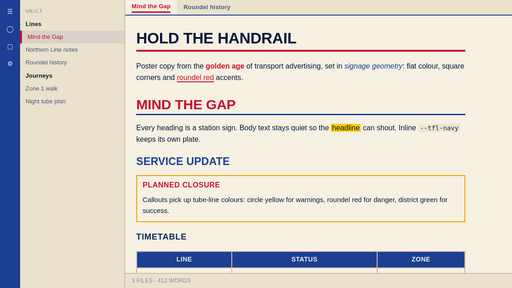
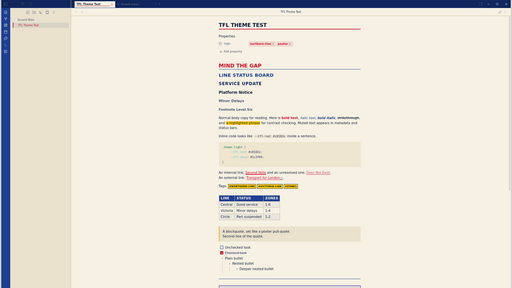
Fix TFL: improve light-mode contrast and screenshots

Changed region(s): [[0.2188, 0.2188, 1.0, 1.0], [0.0, 0.0, 1.0, 1.0], [0.9062, 0.625, 0.9375, 0.75]]

diff --git a/theme.css b/theme.css
@@ -10,15 +10,20 @@
 	/* Poster palette */
 	--tfl-red: #c8102e;
 	--tfl-red-dark: #9b0c23;
+	--tfl-red-ink: #7a081c;
 	--tfl-navy: #1c3f94;
 	--tfl-navy-deep: #10265c;
 	--tfl-navy-ink: #0a1838;
 	--tfl-yellow: #fc0;
 	--tfl-yellow-deep: #f0a400;
+	--tfl-yellow-ink: #5f3b00;
 	--tfl-cream: #f6f1e3;
 	--tfl-cream-deep: #eae2cd;
 	--tfl-teal: #5bc2ce;
+	--tfl-teal-ink: #004b55;
 	--tfl-green: #007d51;
+	--tfl-green-ink: #004f36;
+	--tfl-piccadilly-ink: #0d0875;
 	--tfl-magenta: #a0005e;
 	--tfl-platform: #a9aaae;
 	--tfl-platform-dark: #6f7175;
@@ -317,6 +322,23 @@ svg * {
 	color: var(--tfl-navy-ink);
 }
 
+.theme-light .titlebar .clickable-icon,
+.theme-light .titlebar .titlebar-button,
+.theme-light .workspace-tab-header-container .workspace-tab-header-inner-icon,
+.theme-light .sidebar-toggle-button {
+	color: var(--tfl-cream);
+	opacity: 1;
+}
+
+.theme-light .titlebar .clickable-icon:hover,
+.theme-light .titlebar .titlebar-button:hover,
+.theme-light .workspace-tab-header-container .workspace-tab-header-inner:hover
+	.workspace-tab-header-inner-icon,
+.theme-light .sidebar-toggle-button:hover {
+	background-color: var(--tfl-red);
+	color: #fff;
+}
+
 .workspace-tab-header-inner-title {
 	font-family: var(--font-interface-theme);
 	font-weight: 600;
@@ -430,10 +452,10 @@ svg * {
 	padding: var(--size-4-2) var(--size-4-3);
 }
 
-.callout-title,
-.callout-title-inner,
-.callout-icon .svg-icon {
-	color: var(--callout-color);
+.theme-light .callout-title,
+.theme-light .callout-title-inner,
+.theme-light .callout-icon .svg-icon {
+	color: var(--callout-title-color);
 }
 
 .callout[data-callout="note"],
@@ -441,10 +463,21 @@ svg * {
 	--callout-color: var(--tfl-line-piccadilly);
 }
 
+.theme-light .callout[data-callout="note"],
+.theme-light .callout[data-callout="info"] {
+	--callout-title-color: var(--tfl-piccadilly-ink);
+}
+
 .callout[data-callout="warning"],
 .callout[data-callout="caution"],
 .callout[data-callout="attention"] {
 	--callout-color: var(--tfl-yellow-deep);
+}
+
+.theme-light .callout[data-callout="warning"],
+.theme-light .callout[data-callout="caution"],
+.theme-light .callout[data-callout="attention"] {
+	--callout-title-color: var(--tfl-yellow-ink);
 }
 
 .callout[data-callout="danger"],
@@ -454,16 +487,35 @@ svg * {
 	--callout-color: var(--tfl-red);
 }
 
+.theme-light .callout[data-callout="danger"],
+.theme-light .callout[data-callout="error"],
+.theme-light .callout[data-callout="bug"],
+.theme-light .callout[data-callout="failure"] {
+	--callout-title-color: var(--tfl-red-ink);
+}
+
 .callout[data-callout="success"],
 .callout[data-callout="tip"],
 .callout[data-callout="done"] {
 	--callout-color: var(--tfl-green);
 }
 
+.theme-light .callout[data-callout="success"],
+.theme-light .callout[data-callout="tip"],
+.theme-light .callout[data-callout="done"] {
+	--callout-title-color: var(--tfl-green-ink);
+}
+
 .callout[data-callout="quote"],
 .callout[data-callout="abstract"],
 .callout[data-callout="summary"] {
 	--callout-color: var(--tfl-teal);
+}
+
+.theme-light .callout[data-callout="quote"],
+.theme-light .callout[data-callout="abstract"],
+.theme-light .callout[data-callout="summary"] {
+	--callout-title-color: var(--tfl-teal-ink);
 }
 
 .theme-dark .callout[data-callout="note"],

diff --git a/README.md b/README.md
@@ -15,6 +15,8 @@ high-contrast palette built for clear reading and strong visual hierarchy.
 
 ![TFL theme, dark mode](screenshots/dark.png)
 
+These screenshots were captured in Obsidian 1.13.7.
+
 ## Installation
 
 Once published, install **TFL** from Obsidian's community themes directory:
